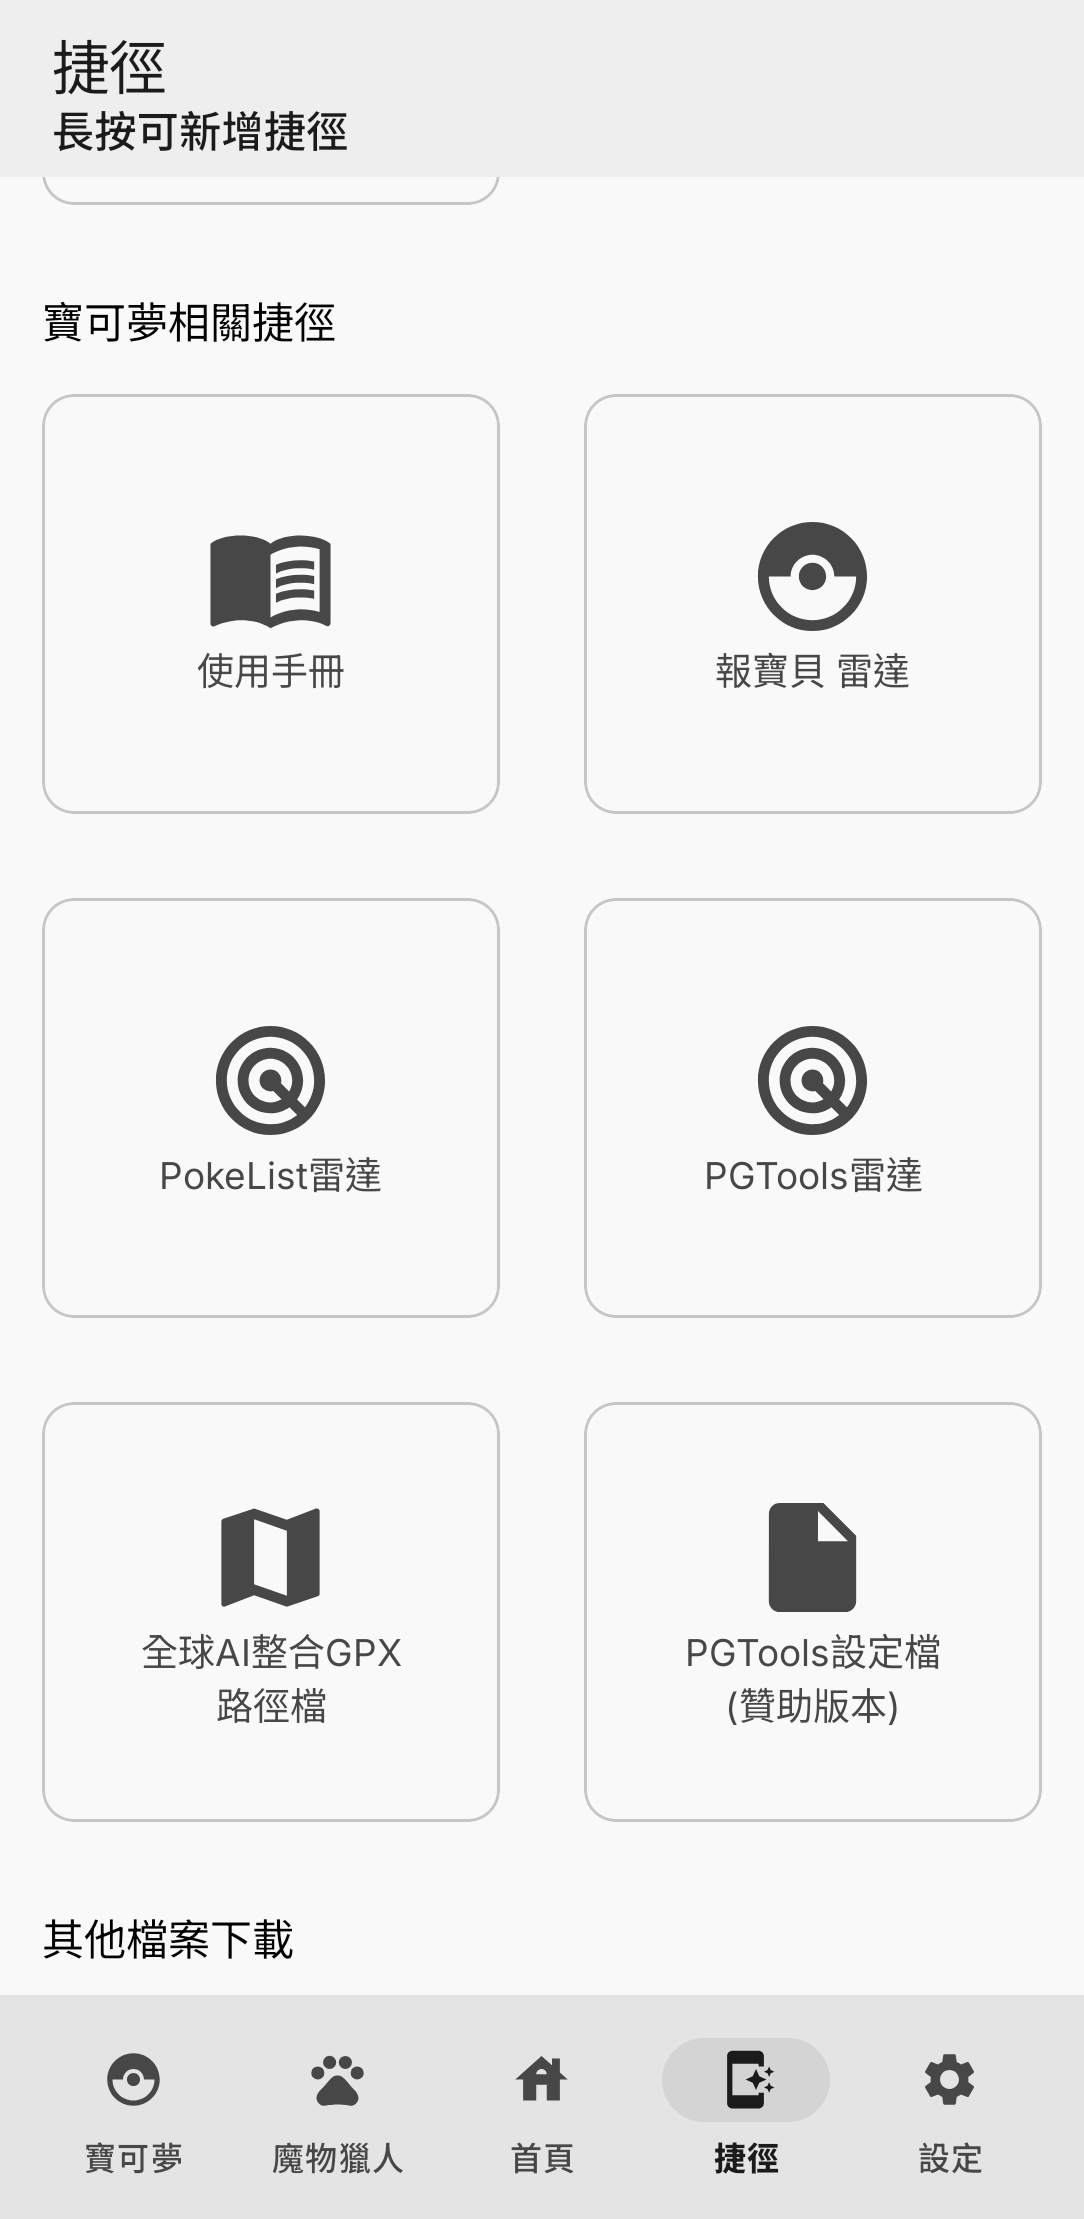
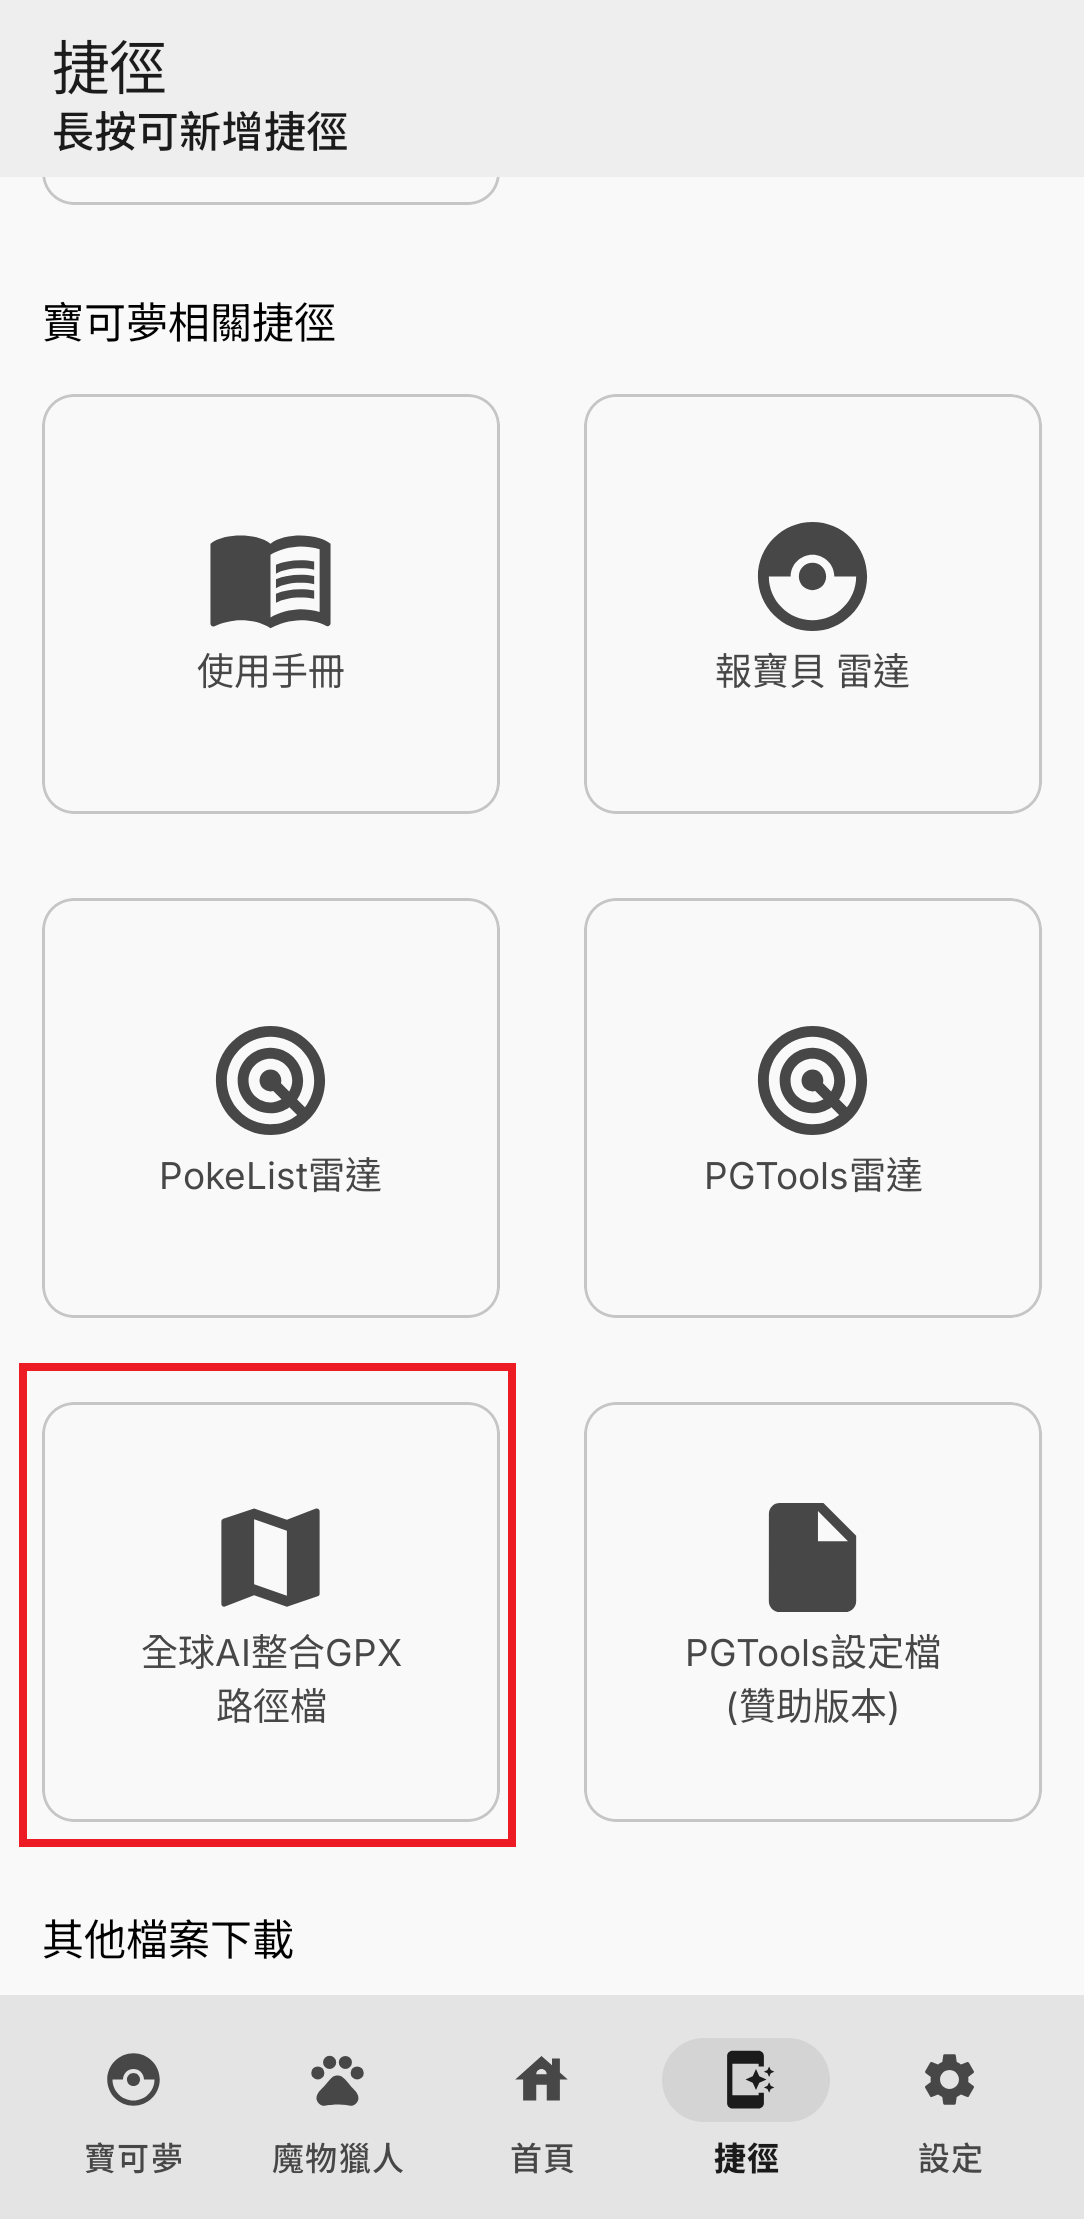
docs: add instructions for downgrading Pokémon GO versions

Changed region(s): [[0.0, 0.5908, 0.4871, 0.8396]]

diff --git a/docs/pokemon_go.md b/docs/pokemon_go.md
@@ -681,6 +681,16 @@
 - 僅適用小米/紅米/POCO 且搭載 MIUI 或 Hyper OS。
 - 正常情況下依一般更新流程即可自動更新。
 
+### 寶可夢降版本
+- 可以在支援版本列表左下方選擇要下載的版本
+
+	<img width="500" src="https://raw.githubusercontent.com/lokey0905/POGO_Manager/master/docs/images/pogoManager_pokemonNewerVersion.png" style="margin-right:10px" />
+
+- 若選擇的版本低於安裝版本，則需要先移除才能繼續下載安裝
+
+	<img width="500" src="https://raw.githubusercontent.com/lokey0905/POGO_Manager/master/docs/images/pogoManager_pokemonNeedDowngrade.png" style="margin-right:10px" />
+
+- 移除過高的版本後，請重新[下載支援版本寶可夢](#版本檢查與一般更新)
 
 ### 寶可夢版本過高&停用自動更新
 如果寶可夢版本過高，表示可能被Play商店自動更新了
@@ -693,7 +703,7 @@
 
 	- 若無顯示此選項，重新啟動裝置後即可關閉
 
-- 若Play商店內顯示未安裝，或是已經取消自動更新，請操作[寶可夢版本過高&停用自動更新](#寶可夢版本過高停用自動更新)
+- 若Play商店內顯示未安裝，或是已經取消自動更新，請操作[寶可夢降版本](#寶可夢降版本)
 
 ### 寶可夢版本強制更新
 - 可先至寶可夢頁面上查看: 目前可安裝版本、各輔助軟體的支援版本與寶可夢最低可登入版本
